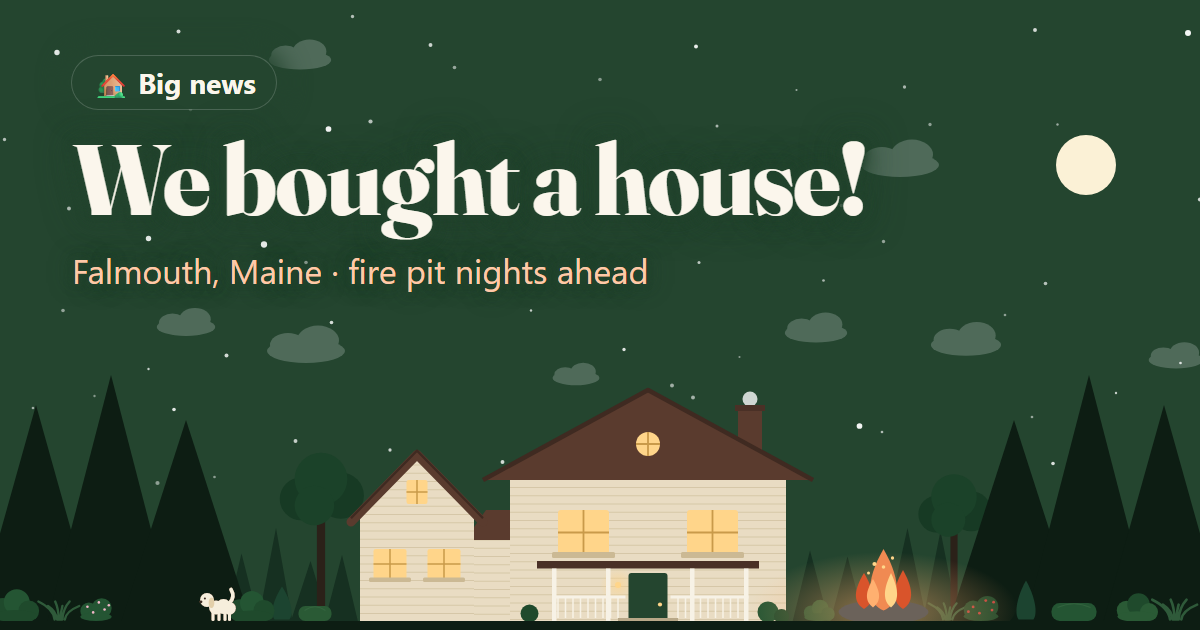
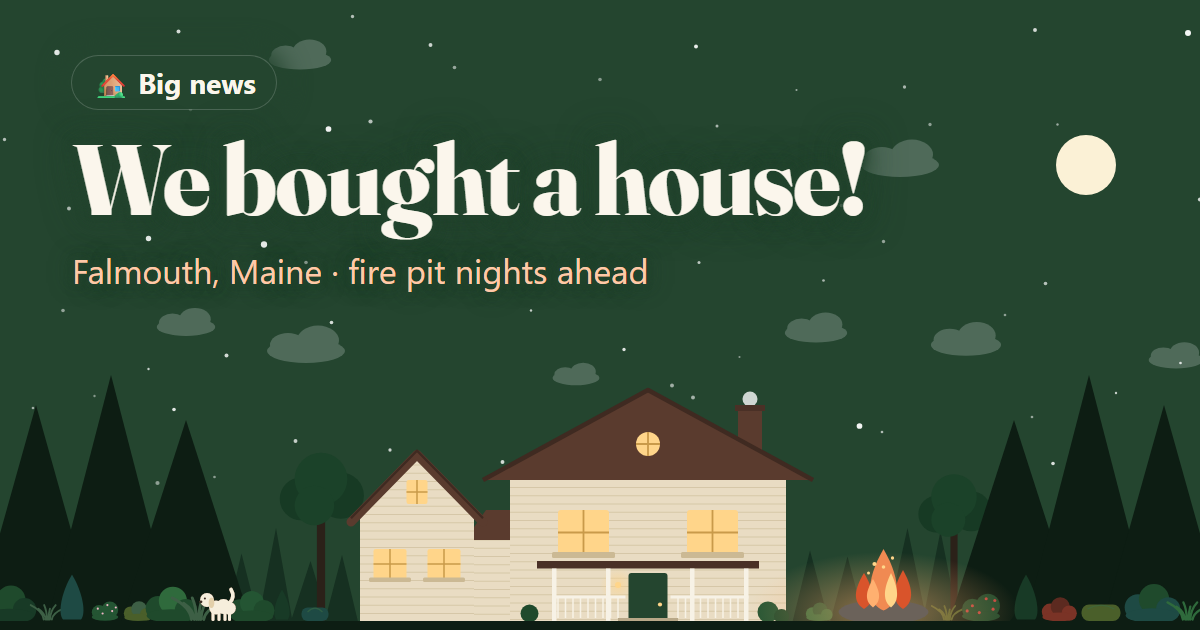
house-share: bushes behind Pancho; more sizes and colours of bush
Three more bushes behind him among the trees, and the whole set in a wider range of sizes
and colours: deep, mid and light greens, olive, blue-green, sage, and a red burning bush.
The preview card is re-rendered to match.

diff --git a/public/house-share/index.html b/public/house-share/index.html
@@ -1281,52 +1281,67 @@
           <circle cx="449" cy="211" r="5" fill="#1f4a2c" />
         </g>
         <g class="bush">
-          <circle cx="-82.05" cy="206.1" r="7.475" fill="#1f4a2c" />
-          <circle cx="-72.85" cy="201.5" r="8.625" fill="#245533" />
-          <circle cx="-64.8" cy="207.25" r="6.8999999999999995" fill="#1f4a2c" />
-          <ellipse
-            cx="-74"
-            cy="210.7"
-            rx="14.95"
-            ry="4.0249999999999995"
-            fill="#1f4a2c"
-          />
+          <circle cx="-87.1" cy="205.2" r="8.450000000000001" fill="#183a26" />
+          <circle cx="-76.7" cy="200" r="9.75" fill="#1f4a2c" />
+          <circle cx="-67.6" cy="206.5" r="7.800000000000001" fill="#183a26" />
+          <ellipse cx="-78" cy="210.4" rx="16.900000000000002" ry="4.55" fill="#183a26" />
         </g>
         <g class="bush">
           <path
-            d="M-47.6 213 Q-48.5 205.8 -58.4 201 M-46 213 Q-46.5 207.6 -52 204 M-44.8 213 Q-45 205.8 -47.2 201 M-43.6 213 Q-43.5 207.6 -42.4 204 M-42.4 213 Q-42 205.8 -37.6 201 M-40.8 213 Q-40 207.6 -31.2 204"
+            d="M-54.88 213 Q-55.6 207.24 -63.52 203.4 M-53.6 213 Q-54 208.68 -58.4 205.8 M-52.64 213 Q-52.8 207.24 -54.56 203.4 M-51.68 213 Q-51.6 208.68 -50.72 205.8 M-50.72 213 Q-50.4 207.24 -46.879999999999995 203.4 M-49.44 213 Q-48.8 208.68 -41.76 205.8"
             fill="none"
-            stroke="#2f5a3a"
-            stroke-width="1.6"
+            stroke="#3d5f45"
+            stroke-width="1.2800000000000002"
             stroke-linecap="round"
           />
         </g>
         <g class="bush">
-          <circle cx="-24.75" cy="207.3" r="5.699999999999999" fill="#245533" />
-          <circle cx="-16.2" cy="205.4" r="6.6499999999999995" fill="#245533" />
-          <ellipse
-            cx="-20"
-            cy="211.1"
-            rx="10.45"
-            ry="2.8499999999999996"
-            fill="#245533"
-          />
-          <circle cx="-25.7" cy="204.45" r="0.855" fill="#f2b6c8" />
-          <circle cx="-18.1" cy="201.6" r="0.855" fill="#f2b6c8" />
-          <circle cx="-14.3" cy="206.35" r="0.855" fill="#f2b6c8" />
-          <circle cx="-21.9" cy="208.25" r="0.855" fill="#f2b6c8" />
-          <circle cx="-11.450000000000001" cy="203.5" r="0.855" fill="#f2b6c8" />
-        </g>
-        <g class="bush">
           <path
-            d="M104 191 C110 199.8 112 209 109 213 H99 C96 209 98 199.8 104 191Z"
-            fill="#1c4430"
+            d="M-36 183 C-28.8 195 -26.4 209 -30 213 H-42 C-45.6 209 -43.2 195 -36 183Z"
+            fill="#1e4a44"
           />
         </g>
         <g class="bush">
-          <rect x="115" y="204" width="22" height="10" rx="4.5" fill="#2a5a35" />
+          <circle cx="-18" cy="208.2" r="4.800000000000001" fill="#245533" />
+          <circle cx="-10.8" cy="206.6" r="5.6000000000000005" fill="#245533" />
+          <ellipse cx="-14" cy="211.4" rx="8.8" ry="2.4000000000000004" fill="#245533" />
+          <circle cx="-18.8" cy="205.8" r="0.7200000000000001" fill="#f2b6c8" />
+          <circle cx="-12.4" cy="203.4" r="0.7200000000000001" fill="#f2b6c8" />
+          <circle cx="-9.2" cy="207.4" r="0.7200000000000001" fill="#f2b6c8" />
+          <circle cx="-15.6" cy="209" r="0.7200000000000001" fill="#f2b6c8" />
+          <circle cx="-6.8" cy="205" r="0.7200000000000001" fill="#f2b6c8" />
+        </g>
+        <g class="bush">
+          <circle cx="3.1000000000000005" cy="208.8" r="4.55" fill="#4a5f2a" />
+          <circle cx="8.7" cy="206" r="5.25" fill="#3d5f45" />
+          <circle cx="13.6" cy="209.5" r="4.199999999999999" fill="#4a5f2a" />
+          <ellipse cx="8" cy="211.6" rx="9.1" ry="2.4499999999999997" fill="#4a5f2a" />
+        </g>
+        <g class="bush">
+          <circle cx="21.25" cy="205.5" r="8.125" fill="#1f4a2c" />
+          <circle cx="31.25" cy="200.5" r="9.375" fill="#2f6a3c" />
+          <circle cx="40" cy="206.75" r="7.5" fill="#1f4a2c" />
+          <ellipse cx="30" cy="210.5" rx="16.25" ry="4.375" fill="#1f4a2c" />
+        </g>
+        <g class="bush">
           <path
-            d="M119 207 Q126 202 133 207"
+            d="M43.68 213 Q42.6 204.36 30.720000000000002 198.6 M45.6 213 Q45 206.52 38.4 202.2 M47.04 213 Q46.8 204.36 44.16 198.6 M48.48 213 Q48.6 206.52 49.92 202.2 M49.92 213 Q50.4 204.36 55.68 198.6 M51.84 213 Q52.8 206.52 63.36 202.2"
+            fill="none"
+            stroke="#3d5f45"
+            stroke-width="1.92"
+            stroke-linecap="round"
+          />
+        </g>
+        <g class="bush">
+          <path
+            d="M104 193 C108.8 201 110.4 209 108 213 H100 C97.6 209 99.2 201 104 193Z"
+            fill="#183a26"
+          />
+        </g>
+        <g class="bush">
+          <rect x="117" y="205" width="18" height="9" rx="4" fill="#1e4a44" />
+          <path
+            d="M121 208 Q126 203 131 208"
             fill="none"
             stroke="#3a6a44"
             stroke-width="0.8"
@@ -1334,47 +1349,59 @@
           />
         </g>
         <g class="bush">
-          <circle cx="456.75" cy="208.5" r="4.875" fill="#245533" />
-          <circle cx="462.75" cy="205.5" r="5.625" fill="#2a5a35" />
-          <circle cx="468" cy="209.25" r="4.5" fill="#245533" />
-          <ellipse cx="462" cy="211.5" rx="9.75" ry="2.625" fill="#245533" />
+          <circle cx="457.45" cy="209.1" r="4.2250000000000005" fill="#2f6a3c" />
+          <circle cx="462.65" cy="206.5" r="4.875" fill="#245533" />
+          <circle cx="467.2" cy="209.75" r="3.9000000000000004" fill="#2f6a3c" />
+          <ellipse cx="462" cy="211.7" rx="8.450000000000001" ry="2.275" fill="#2f6a3c" />
         </g>
         <g class="bush">
           <path
-            d="M544.76 213 Q543.95 206.52 535.04 202.2 M546.2 213 Q545.75 208.14 540.8 204.9 M547.28 213 Q547.1 206.52 545.12 202.2 M548.36 213 Q548.45 208.14 549.4399999999999 204.9 M549.44 213 Q549.8 206.52 553.76 202.2 M550.88 213 Q551.6 208.14 559.5200000000001 204.9"
+            d="M545.3 213 Q544.625 207.6 537.2 204 M546.5 213 Q546.125 208.95 542 206.25 M547.4 213 Q547.25 207.6 545.6 204 M548.3 213 Q548.375 208.95 549.2 206.25 M549.2 213 Q549.5 207.6 552.8 204 M550.4 213 Q551 208.95 557.6 206.25"
             fill="none"
-            stroke="#2f5a3a"
-            stroke-width="1.4400000000000002"
+            stroke="#4a5f2a"
+            stroke-width="1.2000000000000002"
             stroke-linecap="round"
           />
         </g>
         <g class="bush">
-          <circle cx="564.75" cy="206.7" r="6.300000000000001" fill="#1f4a2c" />
-          <circle cx="574.2" cy="204.6" r="7.3500000000000005" fill="#1f4a2c" />
+          <circle cx="564.25" cy="206.1" r="6.8999999999999995" fill="#1f4a2c" />
+          <circle cx="574.6" cy="203.8" r="8.049999999999999" fill="#1f4a2c" />
           <ellipse
             cx="570"
-            cy="210.9"
-            rx="11.55"
-            ry="3.1500000000000004"
+            cy="210.7"
+            rx="12.649999999999999"
+            ry="3.4499999999999997"
             fill="#1f4a2c"
           />
-          <circle cx="564.75" cy="204.6" r="0.9450000000000001" fill="#c2463f" />
-          <circle cx="573.15" cy="200.4" r="0.9450000000000001" fill="#c2463f" />
-          <circle cx="577.35" cy="206.7" r="0.9450000000000001" fill="#c2463f" />
-          <circle cx="568.95" cy="208.8" r="0.9450000000000001" fill="#c2463f" />
-          <circle cx="578.4" cy="201.45" r="0.9450000000000001" fill="#c2463f" />
-          <circle cx="561.6" cy="207.75" r="0.9450000000000001" fill="#c2463f" />
+          <circle cx="564.25" cy="203.8" r="1.035" fill="#c2463f" />
+          <circle cx="573.45" cy="199.2" r="1.035" fill="#c2463f" />
+          <circle cx="578.05" cy="206.1" r="1.035" fill="#c2463f" />
+          <circle cx="568.85" cy="208.4" r="1.035" fill="#c2463f" />
+          <circle cx="579.2" cy="200.35" r="1.035" fill="#c2463f" />
+          <circle cx="560.8" cy="207.25" r="1.035" fill="#c2463f" />
         </g>
         <g class="bush">
           <path
-            d="M600 187 C606 197.4 608 209 605 213 H595 C592 209 594 197.4 600 187Z"
-            fill="#1c4430"
+            d="M600 183 C607.2 195 609.6 209 606 213 H594 C590.4 209 592.8 195 600 183Z"
+            fill="#183a26"
           />
         </g>
         <g class="bush">
-          <rect x="617" y="202" width="30" height="12" rx="5.5" fill="#245533" />
+          <circle cx="616.05" cy="207.9" r="5.5249999999999995" fill="#7a3326" />
+          <circle cx="622.85" cy="204.5" r="6.375" fill="#5c2a20" />
+          <circle cx="628.8" cy="208.75" r="5.1" fill="#7a3326" />
+          <ellipse
+            cx="622"
+            cy="211.3"
+            rx="11.049999999999999"
+            ry="2.975"
+            fill="#7a3326"
+          />
+        </g>
+        <g class="bush">
+          <rect x="637" y="203" width="26" height="11" rx="5" fill="#4a5f2a" />
           <path
-            d="M621 205 Q632 200 643 205"
+            d="M641 206 Q650 201 659 206"
             fill="none"
             stroke="#3a6a44"
             stroke-width="0.8"
@@ -1382,17 +1409,23 @@
           />
         </g>
         <g class="bush">
-          <circle cx="667" cy="207" r="6.5" fill="#2a5a35" />
-          <circle cx="675" cy="203" r="7.5" fill="#1f4a2c" />
-          <circle cx="682" cy="208" r="6" fill="#2a5a35" />
-          <ellipse cx="674" cy="211" rx="13" ry="3.5" fill="#2a5a35" />
+          <circle cx="674.55" cy="204.9" r="8.775" fill="#1e4a44" />
+          <circle cx="685.35" cy="199.5" r="10.125" fill="#1f4a2c" />
+          <circle cx="694.8" cy="206.25" r="8.100000000000001" fill="#1e4a44" />
+          <ellipse
+            cx="684"
+            cy="210.3"
+            rx="17.55"
+            ry="4.7250000000000005"
+            fill="#1e4a44"
+          />
         </g>
         <g class="bush">
           <path
-            d="M696.04 213 Q695.05 205.08 684.16 199.8 M697.8 213 Q697.25 207.06 691.2 203.1 M699.12 213 Q698.9 205.08 696.4799999999999 199.8 M700.44 213 Q700.55 207.06 701.76 203.1 M701.76 213 Q702.2 205.08 707.04 199.8 M703.52 213 Q704.4 207.06 714.0799999999999 203.1"
+            d="M704.58 213 Q703.725 206.16 694.32 201.6 M706.1 213 Q705.625 207.87 700.4 204.45 M707.24 213 Q707.05 206.16 704.96 201.6 M708.38 213 Q708.475 207.87 709.52 204.45 M709.52 213 Q709.9 206.16 714.08 201.6 M711.04 213 Q711.8 207.87 720.16 204.45"
             fill="none"
-            stroke="#2f5a3a"
-            stroke-width="1.7600000000000002"
+            stroke="#2f6a3c"
+            stroke-width="1.52"
             stroke-linecap="round"
           />
         </g>
